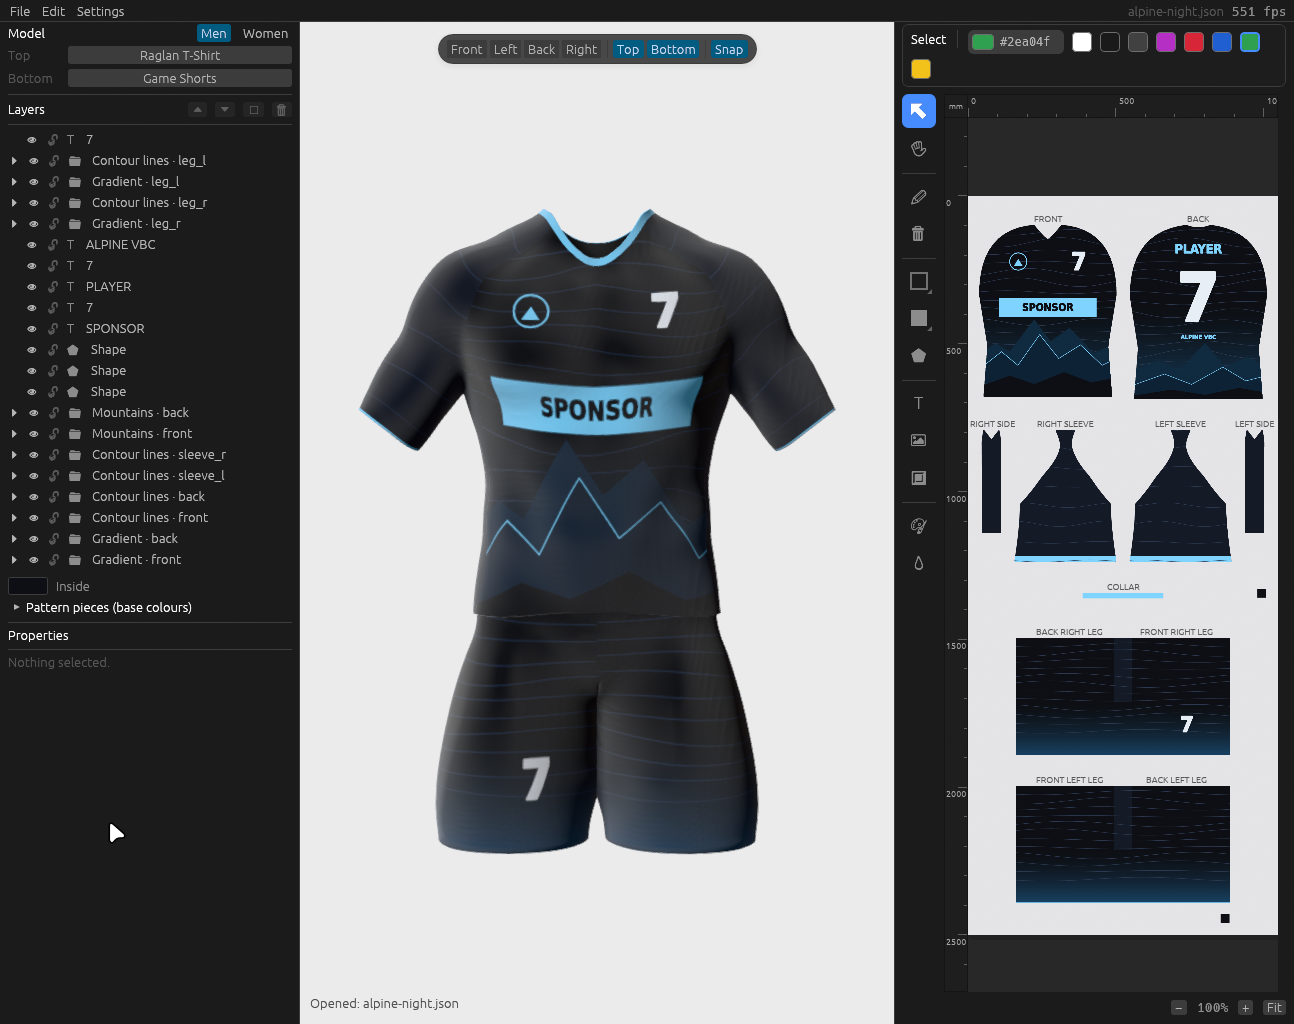
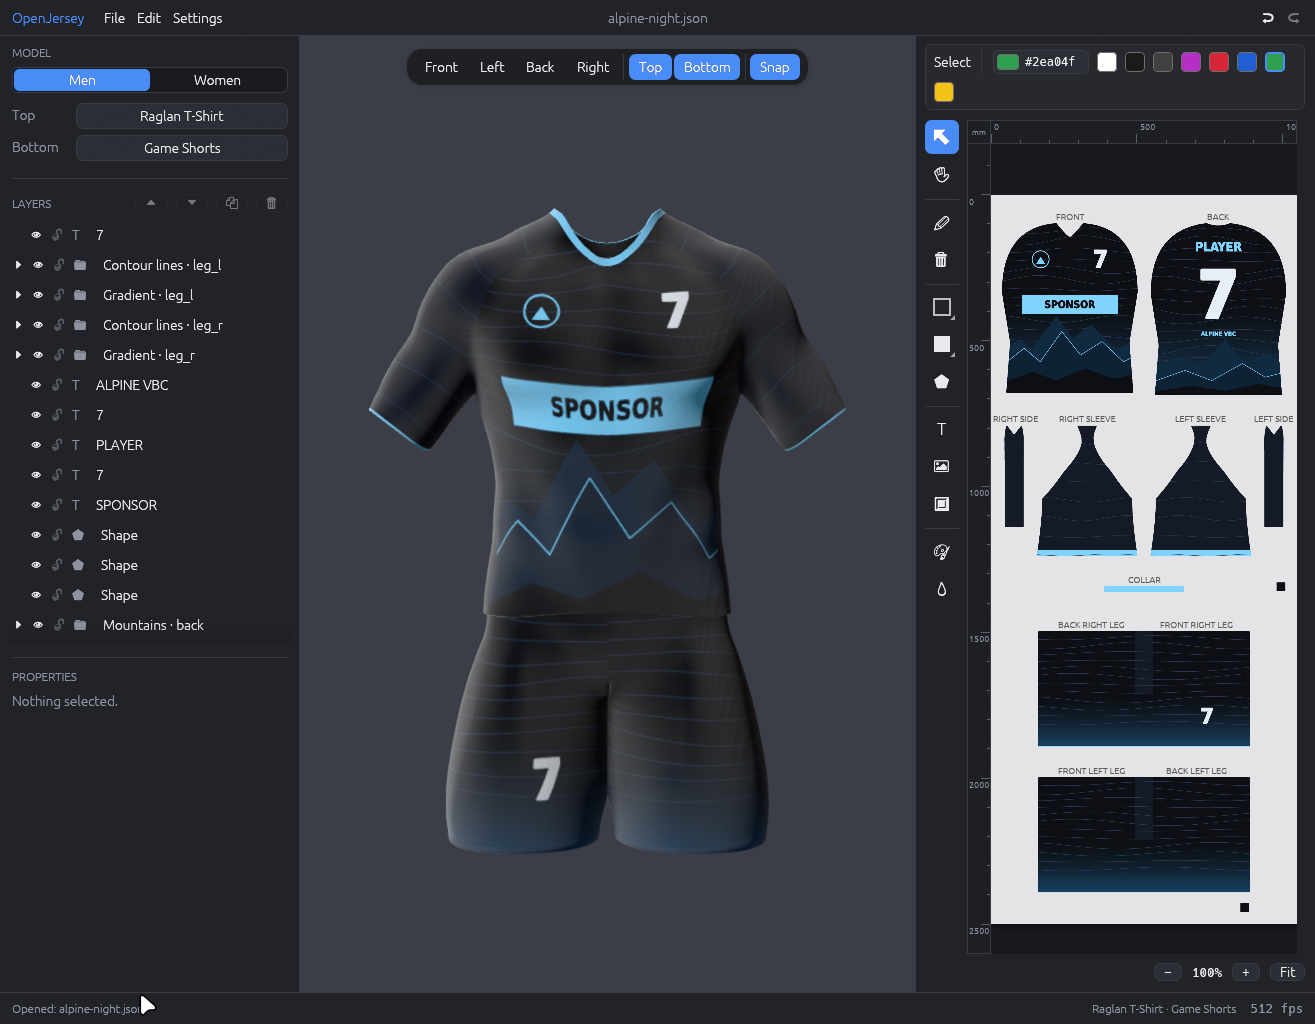
Document the themes and refresh the screenshots
A Themes page (the six presets, how they are stored, how to add one), links
from the README, the user guide, the architecture overview and the
environment variables, a new editor screenshot and an image of all themes.

diff --git a/docs/themes.md b/docs/themes.md
@@ -1,0 +1,60 @@
+# Themes
+
+![The six themes](images/themes.png)
+
+OpenJersey comes with six colour themes. Pick one under **Settings → Theme**; it applies at once and is remembered for the next start.
+
+| Theme | Look |
+| --- | --- |
+| **Graphite** (default) | Neutral dark grey with a blue accent |
+| **Midnight** | Dark navy with a bright blue accent |
+| **Nord** | Blue-grey, with the Nord palette's frost-blue accent |
+| **Forest** | Deep green with a mint accent |
+| **Daylight** | Clean light grey and white with a blue accent |
+| **Paper** | Warm cream with an orange-red accent |
+
+A theme changes everything the app draws: the panels, buttons and menus, the selection and the active tool, the 2D editor's canvas and rulers, and the background of the 3D view.
+
+`OJ_THEME=nord openjersey` starts with a theme for one run (the file name without `.toml`). Otherwise the saved choice is used (`~/.config/openjersey/theme`), and Graphite if there is none.
+
+## How themes are stored
+
+Themes are presets, plain files in [`themes/`](../themes). `build.rs` embeds them at compile time, like the translations, and checks that they are valid TOML. Each one is a short file:
+
+```toml
+name = "Graphite"
+order = 1          # position in the Settings menu
+dark = true        # starts from egui's dark or light base
+
+[colors]
+window = "#1c1d21"          # windows, menus and popups
+panel = "#222328"           # side panels and bars
+surface = "#2c2e35"         # buttons, inputs and cards
+surface_hover = "#363943"   # a button under the pointer
+surface_active = "#40444f"  # a pressed or open button
+border = "#383b44"          # outlines and separators
+text = "#e9eaee"            # normal text
+text_weak = "#8e93a0"       # hints and secondary text
+accent = "#4a8cf7"          # the selection and the active tool
+accent_text = "#ffffff"     # text on the accent colour
+input = "#17181c"           # the inside of text fields
+canvas = "#18191d"          # behind the print sheet in the 2D editor
+viewport = "#3b3e47"        # the background of the 3D view
+ruler = "#1e1f24"           # the rulers of the 2D editor
+warn = "#e3a93c"            # warnings
+error = "#ea5a52"           # errors
+
+[shape]
+rounding = 6       # corner radius of buttons and fields
+```
+
+`src/theme.rs` turns this into an egui style (colours, corner radius, spacing and type sizes) and provides the colours to the parts the app paints itself.
+
+## Adding a preset
+
+Copy one of the files in `themes/`, give it a new `name` and `order`, change the colours and rebuild. No code changes are needed. `cargo test` checks that every theme
+
+- parses and has a unique order,
+- is readable: text against every background it is drawn on, secondary text, and text on the accent colour all meet minimum contrast ratios,
+- is marked `dark` consistently with its colours,
+- gives the 3D view exactly the background colour it names. (The engine passes the background through its tone mapping, so the app inverts that; the test checks the result.)

diff --git a/docs/architecture.md b/docs/architecture.md
@@ -11,12 +11,12 @@ OpenJersey is one Rust binary. The window is [egui](https://github.com/emilk/egu
 | `src/template/` | The print sheet: `Pattern` (the top's atlas with the bottom's below, from the garments' `pattern.json`) and the colour regions |
 | `src/render/` | The CPU rasteriser that turns a document into the sheet image, hit testing and bounds, text layout |
 | `src/workspace.rs` | A document with its history, selection, snapping and drag logic, independent of any UI. Both the UI and the MCP tools drive this |
-| `src/editor.rs`, `src/ui/` | The 2D canvas and its tools, and the panels: layers, properties, garment browser, tool panel, colour picker, 3D toolbar |
+| `src/editor.rs`, `src/ui/` | The 2D canvas and its tools, and the panels: layers, properties, garment browser, tool panel, colour picker, 3D toolbar, and the shared widgets (segmented control, section titles) |
 | `src/scene.rs` | The 3D scene: lights, camera, the two garment models wearing the sheet as texture |
 | `src/pick3d.rs` | The garment mesh on the CPU: which sheet point is under the pointer in the 3D view, and the software preview renderer |
 | `src/garments.rs`, `build.rs` | The garment library, embedded at compile time; `build.rs` also compiles the translations |
 | `src/shapes.rs`, `src/presets.rs` | The preset shapes and ready-made designs |
-| `src/i18n.rs` | Translations (see [Translations](translations.md)) |
+| `src/i18n.rs`, `src/theme.rs`, `src/config.rs` | Translations (see [Translations](translations.md)), colour themes (see [Themes](themes.md)) and the little the app remembers between runs (`~/.config/openjersey/`) |
 | `src/ai/` | The MCP interface: `commands.rs` (the tools), `server.rs` (the local socket the app serves them on), `mcp.rs` (the stdio bridge) |
 
 ## How a change travels

diff --git a/docs/user-guide.md b/docs/user-guide.md
@@ -2,7 +2,7 @@
 
 ![The editor](images/editor.png)
 
-The window has three areas: the **sidebar** on the left (garments, layers, properties), the **3D view** in the middle and the **2D editor** on the right, where the print sheet is drawn. Both views show the same design; you can pick and move objects in either.
+The window has a **title bar** on top (the menus, the design's file name, undo and redo), a **status bar** at the bottom (the last message, the garments in use, the frame rate) and, between them, three areas: the **sidebar** on the left (garments, layers, properties), the **3D view** in the middle and the **2D editor** on the right, where the print sheet is drawn. Both views show the same design; you can pick and move objects in either.
 
 ## Garments
 
@@ -70,7 +70,7 @@ With **Snap** on, a dragged object's edges and centre snap to the centre lines o
 | File → New / Open / Save / Save as | Designs are `.json` files with their graphics embedded |
 | File → Template | Start from a ready-made design |
 | File → Export print template | The sheet as a PNG for the printer; logo placeholders are left out |
-| Settings | Language (English, Deutsch) and VSync |
+| Settings | Language (English, Deutsch), the colour theme (see [Themes](themes.md)) and VSync |
 
 Older save files open too; they are moved onto the current sheet layout.
 
@@ -78,7 +78,7 @@ Older save files open too; they are moved onto the current sheet layout.
 
 | Keys | |
 | --- | --- |
-| Ctrl+Z, Ctrl+Y (or Ctrl+Shift+Z) | Undo, redo |
+| Ctrl+Z, Ctrl+Y (or Ctrl+Shift+Z) | Undo, redo (also the arrow buttons at the right of the title bar) |
 | Ctrl+C, Ctrl+V | Copy, paste |
 | Ctrl+D | Duplicate |
 | Ctrl+G, Ctrl+Shift+G | Group, ungroup |

diff --git a/README.md b/README.md
@@ -28,9 +28,14 @@ It also has an [MCP](https://modelcontextprotocol.io) interface, so Claude Code,
 - **A lit 3D view** with front, left, back and right views, in which you can select and drag objects directly on the garment, with snapping to everything else on the design.
 - **Print-ready export**: the sheet as a PNG, logo placeholders left out.
 - **An AI-friendly interface**: 34 tools, `batch` calls that undo as one step, renders the assistant can look at. See [Working with AI assistants](docs/ai-assistants.md).
+- **Six colour themes** (Graphite, Midnight, Nord, Forest, Daylight, Paper) that restyle the whole interface, the 2D editor and the 3D background. See [Themes](docs/themes.md).
 - English and German, with a translation system that makes adding a language a single file.
 
 ![The OpenJersey editor](docs/images/editor.png)
+
+Six themes, from dark to light, change the whole interface:
+
+![The six themes: Graphite, Midnight, Nord, Forest, Daylight and Paper](docs/images/themes.png)
 
 ## Examples
 
@@ -83,6 +88,7 @@ Then ask for what you want: *"Design a navy and gold jersey for my club, number 
 | [Working with AI assistants](docs/ai-assistants.md) | MCP setup and how the examples were made |
 | [MCP tool reference](docs/mcp-tools.md) | All tools and prompts |
 | [Examples](docs/examples/README.md) | The designs and the scripts that built them |
+| [Themes](docs/themes.md) | The colour themes and how they are stored |
 | [Garment library](docs/garments.md) | The garments and how they are built with Blender |
 | [Translations](docs/translations.md) | Adding a language |
 | [Architecture](docs/architecture.md) | How the code fits together |

diff --git a/docs/README.md b/docs/README.md
@@ -7,6 +7,7 @@
 | [Working with AI assistants](ai-assistants.md) | Connect Claude Code, Codex or any MCP client; a typical session; how the examples were made |
 | [MCP tool reference](mcp-tools.md) | Every tool, its parameters and the prompts (generated from the running server) |
 | [Examples](examples/README.md) | The example designs, the scripts that built them, how to rebuild them |
+| [Themes](themes.md) | The six colour themes and how they are stored |
 | [Garment library](garments.md) | The garments, how they are built with Blender, how to add one |
 | [Translations](translations.md) | How texts are stored, how to add a language |
 | [Architecture](architecture.md) | How the code is organised and how a change travels through the app |

diff --git a/docs/getting-started.md b/docs/getting-started.md
@@ -49,6 +49,7 @@ openjersey --export-template sheet.png --preset example --top "polo shirt" --bot
 | Variable | Effect |
 | --- | --- |
 | `OJ_LANG=en\|de` | The interface language (otherwise the saved choice, then the system locale) |
+| `OJ_THEME=graphite\|midnight\|nord\|forest\|daylight\|paper` | The colour theme (otherwise the saved choice; see [Themes](themes.md)) |
 | `OJ_VSYNC=1` | Turn VSync on at start (also in Settings) |
 | `OJ_PATH=basic` | Use the basic render path instead of the HDR pipeline |
 | `OJ_AA=none\|fxaa\|msaa\|msaa-fxaa` | Anti-aliasing mode |
